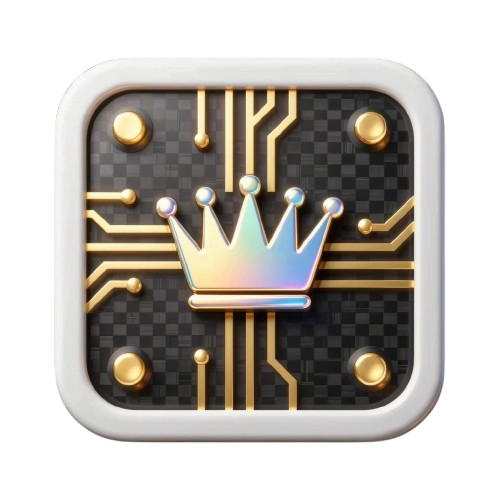
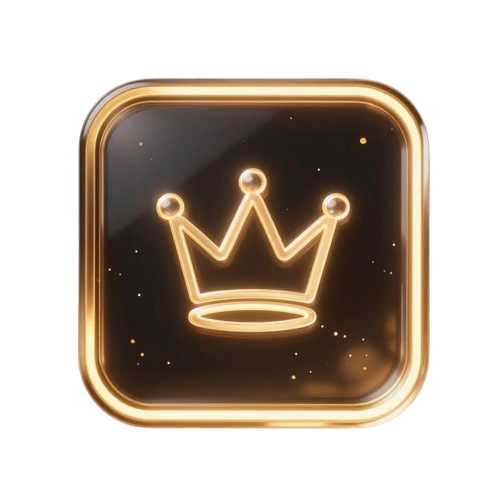
feat: prem_box — золотая неоновая корона (5.png)

diff --git a/version.py b/version.py
@@ -3,8 +3,8 @@ version.py — текущая версия проекта Duel Arena.
 Обновляется при каждом значимом изменении.
 """
 
-VERSION = "2.19.08"
-VERSION_LABEL = "v2.19.08 — fix: цены воскрешения снижены до 60/80/100 золота"
+VERSION = "2.19.09"
+VERSION_LABEL = "v2.19.09 — feat: prem_box иконка — золотая неоновая корона (5.png)"
 
 # Игровая версия для UI (bot / mini app). Один источник истины.
 # При деплое с изменениями кода увеличивать на +0.01 (например 2.01 → 2.02).
